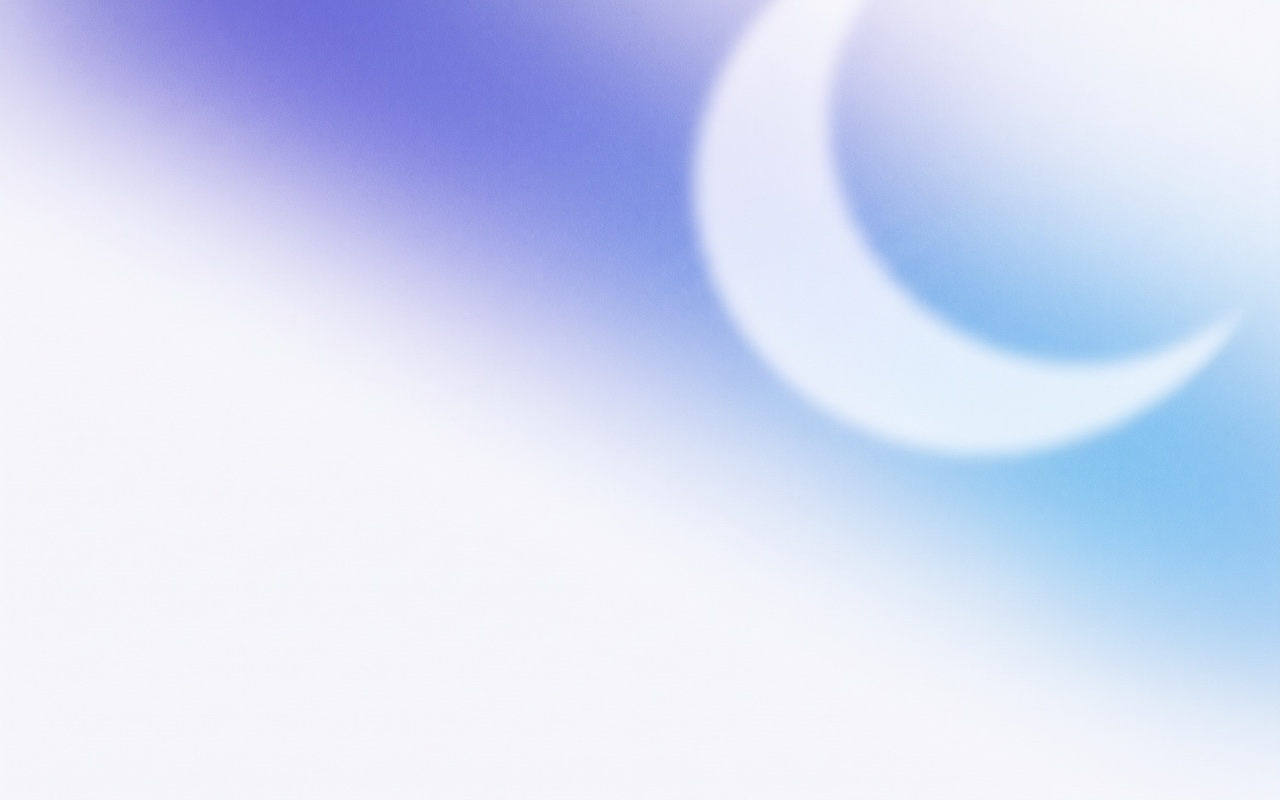
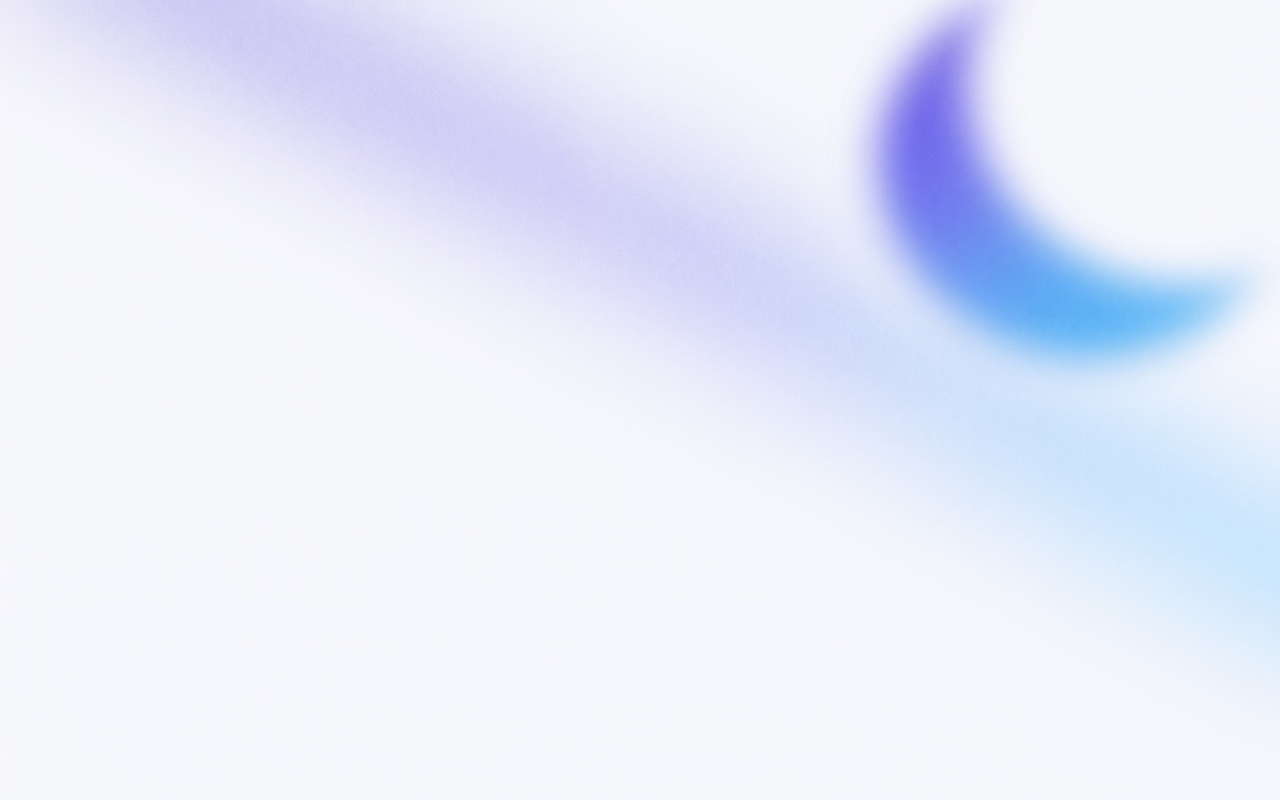
Stand the remedy where a tick would, and give the page its own edge
Safari's card read as two stacked lines, so the browser's name sat
above the line its own icon is on — and the title outgrew the column
and stopped mid-word. The remedy goes in the tick's place instead:
right-aligned, on the row's centre line, at the caption's size, and
without "Luna" in it, because the button is in Luna. The name keeps
the line every other card is read on, and the test says so.

The installer's plane is the second light rendering, made from the
dark one rather than from the prompt again — same composition, better
drawing.

Its window is 32 pt taller than the artwork now: `bounds` measures the
window and Finder's title bar is inside it, so 400 was squeezing the
page into 368 and sitting it low. The path bar goes off with the status
bar — a selected alias turns it into a breadcrumb — and nothing is left
selected, since the last item positioned stays highlighted and a blue
label under the Applications folder is the first thing the eye lands
on. The title bar itself is Finder's and stays.

diff --git a/Features/Onboarding/OnboardingImportRow.swift b/Features/Onboarding/OnboardingImportRow.swift
@@ -69,7 +69,9 @@ final class OnboardingImportRow: NSView {
 
     init(source: DetectedSource) {
         self.source = source
-        remedy = source.remedy.map { OnboardingButton(title: $0.title, isPreferred: false) }
+        remedy = source.remedy.map {
+            OnboardingButton(title: $0.title, isPreferred: false, font: Tokens.TypeScale.settingsCaption)
+        }
         super.init(frame: .zero)
         wantsLayer = true
         layer?.cornerCurve = .continuous
@@ -150,27 +152,34 @@ final class OnboardingImportRow: NSView {
             mark.layer?.cornerRadius = markSide / 2
             check.frame = mark.frame
             spinner.frame = mark.frame.insetBy(dx: 2, dy: 2)
-            layOutText(
-                from: icon.frame.maxX + Tokens.Metric.chromeGapWide,
-                to: mark.frame.minX - Tokens.Metric.chromeGapWide
-            )
+            let left = icon.frame.maxX + Tokens.Metric.chromeGapWide
+            layOutText(from: left, to: layOutRemedy(after: left) ?? mark.frame.minX - Tokens.Metric.chromeGapWide)
         }
+    }
+
+    /// The remedy stands where the tick would have, right-aligned and on the
+    /// row's centre line — so the browser's name stays level with its icon,
+    /// which is the line every other card is read on.
+    ///
+    /// - Returns: where the text column now has to stop, or nil when there is
+    ///   no remedy on this card.
+    private func layOutRemedy(after left: CGFloat) -> CGFloat? {
+        guard let remedy else { return nil }
+        let inset = Tokens.Metric.chromeGapWide
+        let height = Tokens.Metric.controlCircle.height
+        let width = min(ceil(remedy.fittingWidth), max(bounds.maxX - inset - left, 0))
+        remedy.frame = NSRect(
+            x: bounds.maxX - inset - width,
+            y: ((bounds.height - height) / 2).rounded(),
+            width: width,
+            height: height
+        ).integral
+        return remedy.frame.minX - inset
     }
 
     private func layOutText(from left: CGFloat, to right: CGFloat) {
         let width = max(right - left, 0)
         let nameHeight = ceil(name.fittingSize.height)
-        if let remedy {
-            let button = CGSize(
-                width: min(ceil(remedy.fittingWidth), width),
-                height: Tokens.Metric.controlCircle.height
-            )
-            let block = nameHeight + Tokens.Metric.chromeGap + button.height
-            let top = ((bounds.height + block) / 2).rounded()
-            name.frame = NSRect(x: left, y: top - nameHeight, width: width, height: nameHeight)
-            remedy.frame = NSRect(x: left, y: top - block, width: button.width, height: button.height).integral
-            return
-        }
         guard !reason.isHidden else {
             name.frame = NSRect(x: left, y: ((bounds.height - nameHeight) / 2).rounded(), width: width, height: nameHeight)
             return

diff --git a/Tests/Onboarding/OnboardingTests.swift b/Tests/Onboarding/OnboardingTests.swift
@@ -305,6 +305,14 @@ final class OnboardingImportListTests: XCTestCase {
         }
         XCTAssertEqual(button.accessibilityLabel(), ImportRemedy.fullDiskAccess.title)
         XCTAssertTrue(button.frame.maxX <= row.bounds.width, "the remedy runs off the card")
+        XCTAssertGreaterThanOrEqual(button.frame.width, button.fittingWidth, "the title is truncated")
+        // The remedy stands where a tick would, so the name keeps the line it
+        // is read on: level with the browser's own icon.
+        guard let label = row.subviews.compactMap({ $0 as? NSTextField }).first(where: { !$0.isHidden }) else {
+            return XCTFail("no name")
+        }
+        XCTAssertEqual(label.frame.midY, row.bounds.midY, accuracy: 1, "the name is off the row's centre line")
+        XCTAssertEqual(button.frame.midY, row.bounds.midY, accuracy: 1, "the remedy is off the row's centre line")
         let aim = NSPoint(x: button.frame.midX, y: button.frame.midY)
         XCTAssertTrue(row.hitTest(aim) === button, "the card swallowed its own button")
         XCTAssertTrue(button.accessibilityPerformPress())

diff --git a/Features/Onboarding/OnboardingButton.swift b/Features/Onboarding/OnboardingButton.swift
@@ -47,14 +47,18 @@ final class OnboardingButton: NSView {
         }
     }
 
-    init(title: String, isPreferred: Bool) {
+    /// - Parameter font: the page's own size by default. The remedy on an
+    ///   unreadable browser's card takes the caption's instead: it sits in the
+    ///   width a tick would have had, and at the page size its title did not
+    ///   fit in it.
+    init(title: String, isPreferred: Bool, font: NSFont = Tokens.TypeScale.commandBarRow) {
         self.isPreferred = isPreferred
         super.init(frame: .zero)
         wantsLayer = true
         layer?.cornerCurve = .continuous
         label.stringValue = title
         self.title = title
-        label.font = Tokens.TypeScale.commandBarRow
+        label.font = font
         label.alignment = .center
         addSubview(label)
         setAccessibilityElement(true)

diff --git a/Features/Import/ImportSource.swift b/Features/Import/ImportSource.swift
@@ -155,7 +155,9 @@ struct ChromiumProfile: Sendable, Hashable, Identifiable {
 enum ImportRemedy: Sendable, Hashable, CaseIterable {
     case fullDiskAccess
 
-    var title: String { String(localized: "Grant Luna Full Disk Access") }
+    /// No "Luna" in it: the button is in Luna, on a card about Safari, and
+    /// the words have to fit where a tick would have gone.
+    var title: String { String(localized: "Grant Full Disk Access") }
 
     /// The Full Disk Access list itself, not the top of Privacy & Security.
     /// `Privacy_AllFiles` is the anchor macOS uses for that pane; without it
